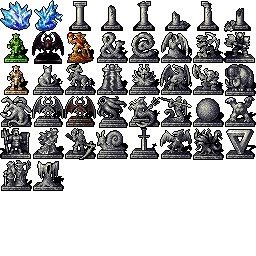
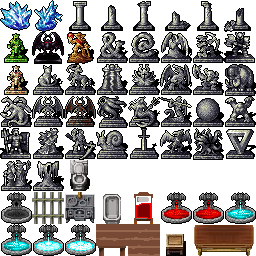
started with walking up and down. added furniture edited map0

Changed region(s): [[0.0, 0.625, 1.0, 1.0]]

diff --git a/src/Game.js b/src/Game.js
@@ -17,22 +17,21 @@ export class SceneMansion extends Phaser.Scene {
 
     }
     create() {
-        let map = this.make.tilemap({ key: "mansion0" });
+        this.map = this.make.tilemap({ key: "map0" });
         
         
         
-        let tilesetFloors = map.addTilesetImage("tilesetfloors", "tilesetfloors_");
-        let tilesetStairs = map.addTilesetImage("tilesetstairs", "tilesetstairs_");
-        let tilesetWall = map.addTilesetImage("tilesetwalls", "tilesetwalls_");
-        let tilesetStatue = map.addTilesetImage("tilesetstatues", "tilesetstatues_");
-
-        this.FloorsLayer = map.createLayer("Floors", tilesetFloors);
-        this.StairsLayer = map.createLayer("stairs", tilesetStairs);
-        this.WallLayer = map.createLayer("Walls", tilesetWall);
-        this.DecorLayer = map.createLayer("Decor", tilesetStatue);
+        let tilesetFloors = this.map.addTilesetImage("tilesetfloors", "tilesetfloors_");
+        let tilesetStairs = this.map.addTilesetImage("tilesetstairs", "tilesetstairs_");
+        let tilesetWall = this.map.addTilesetImage("tilesetwalls", "tilesetwalls_");
+        let tilesetStatue = this.map.addTilesetImage("tilesetstatues", "tilesetstatues_");
+        this.FloorsLayer = this.map.createLayer("Floors", tilesetFloors);
+        this.StairsLayer = this.map.createLayer("Stairs", tilesetStairs);        
+        this.WallLayer = this.map.createLayer("Walls", tilesetWall);
+        this.DecorLayer = this.map.createLayer("Decor", tilesetStatue);
         // Using the this.map.filterObjects() function, select the required objects from the required layer. 
         // The first argument is the layers name, the second one is the callback function for filtering. 
-        this.spawnPoints = map.filterObjects("playerspawns", obj => obj.name === "playerspawn");
+        this.spawnPoints = this.map.filterObjects("playerspawns", obj => obj.name === "playerspawn");
         this.WallLayer.setCollisionByProperty({ collides: true });
         // spawnpoint 0 is always there. put there player
         var playerXpixel = this.spawnPoints[0].x; var playerYpixel = this.spawnPoints[0].y;
@@ -107,6 +106,16 @@ export class SceneMansion extends Phaser.Scene {
         }
 
     }
+    // ascend or descend - portal, stairs. Initiate scene reload
+    useStairsOrPortal(xPixel, yPixel, direction) {
+        console.log("[" + xPixel + ";" + yPixel + "]" + direction);
+        var objectParamCallback = function (obj) {
+            return ((xPixel - UtilClass.SPRITEWIDTH / 2 == obj.x) && (yPixel - UtilClass.SPRITEHEIGHT / 2 == obj.y))
+        }
+        var locatedObject = this.map.findObject("AccessPoints", objectParamCallback);
+        console.log(locatedObject);
+    }
+
     // check whether this tile is wall. Or door
     checkIsWall(xPixel, yPixel) {
         var tileWall = this.WallLayer.getTileAtWorldXY(xPixel, yPixel, true, this.cameras.main);

diff --git a/src/PlayerActor.js b/src/PlayerActor.js
@@ -21,6 +21,8 @@ export class Player extends ActorMain {
         this.keyFrontRight = this.scene.input.keyboard.addKey(Phaser.Input.Keyboard.KeyCodes.NUMPAD_NINE);
 
         this.keyUse = this.scene.input.keyboard.addKey(Phaser.Input.Keyboard.KeyCodes.C);
+        this.keyMvDownOrWait = this.scene.input.keyboard.addKey(Phaser.Input.Keyboard.KeyCodes.PERIOD);
+        this.keyMvUp = this.scene.input.keyboard.addKey(Phaser.Input.Keyboard.KeyCodes.COMMA);
     }
     update() {
         // inspired by tileset movement example
@@ -88,6 +90,18 @@ export class Player extends ActorMain {
         if (Phaser.Input.Keyboard.JustDown(this.keyUse)) {
             // trying to use something. Close a door...
             this.scene.useSomething(this.x, this.y);
+        }
+        if (Phaser.Input.Keyboard.JustDown(this.keyMvUp)) {
+            if (this.keyMvUp.shiftKey) {
+                //console.log("UP")
+                this.scene.useStairsOrPortal(this.x, this.y, "UP");
+            }
+        }
+        if (Phaser.Input.Keyboard.JustDown(this.keyMvDownOrWait)) {
+            if (this.keyMvUp.shiftKey) {
+                //console.log("DOWN")
+                this.scene.useStairsOrPortal(this.x, this.y, "DOWN");
+            }
         }
     }
 }

diff --git a/src/Preloader.js b/src/Preloader.js
@@ -8,8 +8,9 @@ export class Preloader extends Phaser.Scene {
         this.load.image('tilesetwalls_', require("/finalgraphics/walls.png"));
         this.load.image('tilesetstatues_', require("/finalgraphics/statues.png"));
         this.load.image('tilesetstairs_', require("/finalgraphics/stairs.png"));
+        //this.load.spritesheet('tilesetstairs_', require("/finalgraphics/stairs.png"), { frameWidth: 32, frameHeight: 32 });
         this.load.image('tilesetfloors_', require("/finalgraphics/floors.png"));
-        this.load.tilemapTiledJSON('mansion0', require("/finalmaps/map0.json"));
+        this.load.tilemapTiledJSON('map0', require("/finalmaps/map0.json"));
         this.load.spritesheet('hobgoblin_controllable_sprites', require("/finalgraphics/hobgoblin_controllable.png"), { frameWidth: 32, frameHeight: 32 });
         console.log("preloader");
     }
